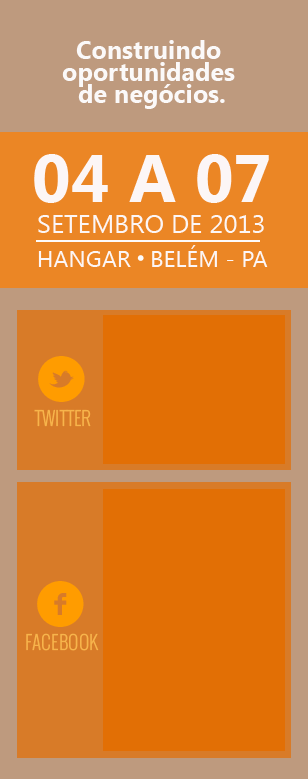
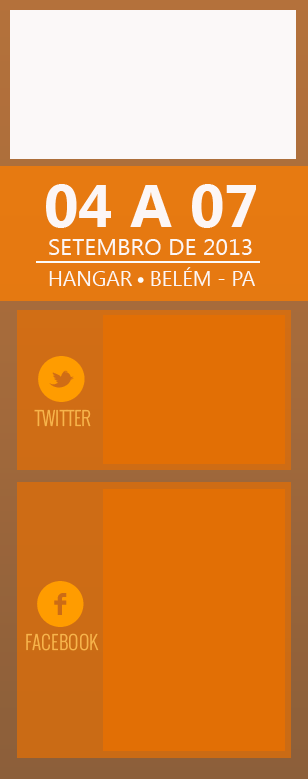
Ultima atualização

diff --git a/stylesheets/application.less b/stylesheets/application.less
@@ -48,9 +48,15 @@ body{
             margin-right:20px;
             }
         }
+        #logo_sindmaco{
+            float:right;
+            margin-right:156px;
+            margin-top:20px;
+            }
     #redes{
         float:right;
         padding:30px 120px 0 0;
+        margin-right:-380px;
         }
 	}
 /* FOOTER */

diff --git a/stylesheets/application.css b/stylesheets/application.css
@@ -48,9 +48,15 @@ body .pp_pic_holder {
   display: inline;
   margin-right: 20px;
 }
+#header #logo_sindmaco {
+  float: right;
+  margin-right: 156px;
+  margin-top: 20px;
+}
 #header #redes {
   float: right;
   padding: 30px 120px 0 0;
+  margin-right: -380px;
 }
 /* FOOTER */
 #footer {

diff --git a/index.php b/index.php
@@ -5,7 +5,8 @@
     <div id="header">
     	<div class="centraliza">
 		<?php include("menu.php");  ?>
-            <div id="redes">
+        	<a href="http://www.sindmaco.com.br" target="_blank"/><img src="<?php servidor(); ?>images/sindmaco.jpg" alt="" id="logo_sindmaco"></a>
+            <div id="redes">           		
             	<a href=""><img src="images/face_off.png" alt="" class="botao"></a>
                 <a href=""><img src="images/tt_off.png" alt="" class="botao"></a>
             </div>
@@ -21,7 +22,7 @@
                     	<iframe width="373" height="280" src="http://www.youtube.com/embed/gHUEWG_TEiQ" frameborder="0" allowfullscreen></iframe>
                     </div>
 	            </div>
-	    		<div class="coluna info">
+	    		<div class="coluna info">                	
                 	<div id="twitter">
                     	<div id="twits"></div>
                     </div>
